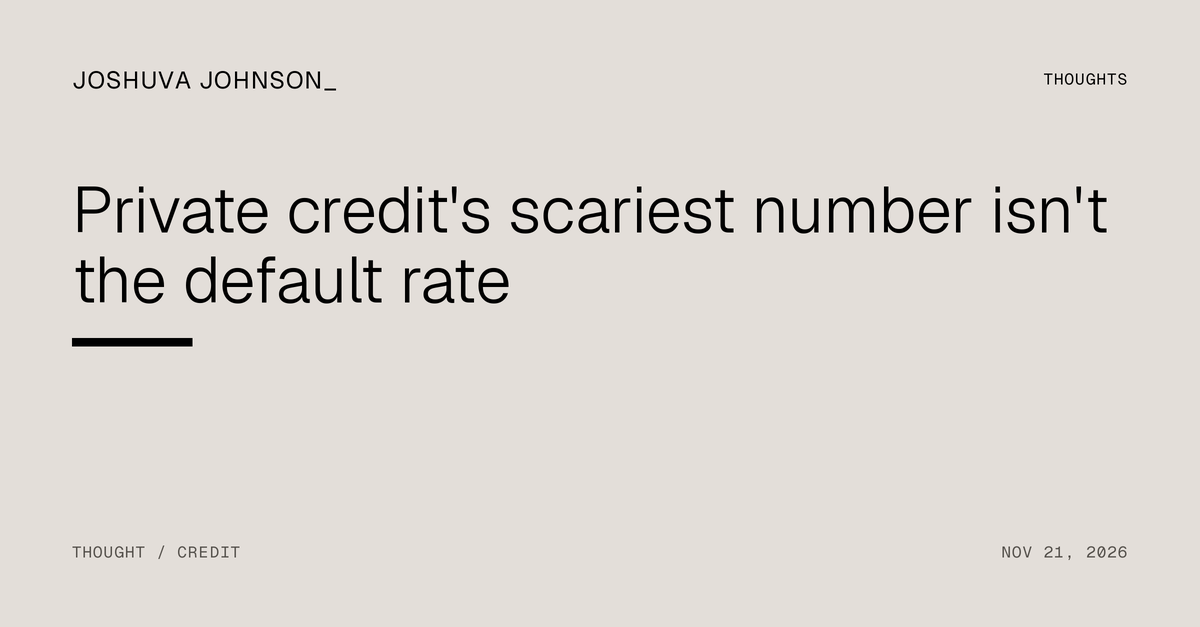
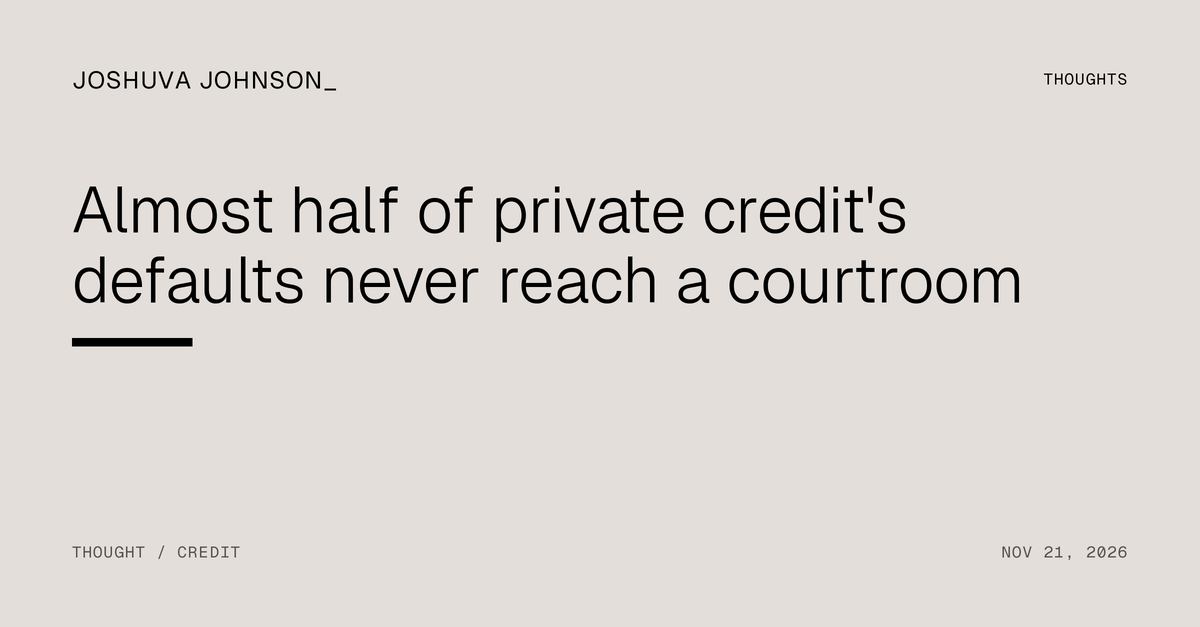
Writing: drop the repeated 'isn't X' construction; fix two stale facts
- New summaries for the AI bottleneck, bonus season, private credit and rates pieces; only the rates title keeps its contrast
- Private credit title now states the finding: almost half of defaults never reach a courtroom
- Private credit summary says 'at or above 6% since April', matching the article
- Bonus piece no longer says the 10-year 'is above 5%': it spent October and most of November there before falling to about 4.9%
- Fewer negation contrasts inside the rates and AI pieces; share images redrawn for the new titles

Claude-Session: https://claude.ai/code/session_01Dc4KQMDr4px4SMpMrXU2Lh

Changed region(s): [[0.0617, 0.2727, 0.925, 0.4848]]

diff --git a/thoughts/rates-sell-off/index.html b/thoughts/rates-sell-off/index.html
@@ -4,11 +4,11 @@
 <meta charset="utf-8">
 <meta name="viewport" content="width=device-width, initial-scale=1">
 <title>The price of risk, not the price of money | Joshuva Johnson</title>
-<meta name="description" content="The 10-year Treasury yield fell this week and the S&amp;P 500 fell 8.6% anyway. That isn&#x27;t a rates story. Taking the sell-off apart, and what it means for the AI trade.">
+<meta name="description" content="The 10-year Treasury yield fell this week, and the S&amp;P 500 dropped 8.6% anyway. Investors are charging more to hold risk, and the AI trade sits in the middle of it.">
 <link rel="canonical" href="https://joshuvajohnson.github.io/thoughts/rates-sell-off/">
 <meta property="og:site_name" content="Joshuva Johnson">
 <meta property="og:title" content="The price of risk, not the price of money">
-<meta property="og:description" content="The 10-year Treasury yield fell this week and the S&amp;P 500 fell 8.6% anyway. That isn&#x27;t a rates story. Taking the sell-off apart, and what it means for the AI trade.">
+<meta property="og:description" content="The 10-year Treasury yield fell this week, and the S&amp;P 500 dropped 8.6% anyway. Investors are charging more to hold risk, and the AI trade sits in the middle of it.">
 <meta property="og:url" content="https://joshuvajohnson.github.io/thoughts/rates-sell-off/">
 <meta property="og:type" content="article">
 <meta property="og:image" content="https://joshuvajohnson.github.io/assets/og/thoughts-rates-sell-off.png">
@@ -44,7 +44,7 @@
 <article class="artwrap gut">
   <p class="crumbs"><a href="/">Thoughts</a><span>/</span><span>Hot take</span></p>
   <h1>The price of risk, not the price of money</h1>
-  <p class="dek">The 10-year Treasury yield fell this week and the S&amp;P 500 fell 8.6% anyway. That isn&#x27;t a rates story. Taking the sell-off apart, and what it means for the AI trade.</p>
+  <p class="dek">The 10-year Treasury yield fell this week, and the S&amp;P 500 dropped 8.6% anyway. Investors are charging more to hold risk, and the AI trade sits in the middle of it.</p>
   <p class="byline"><b>Joshuva Johnson</b><time datetime="2026-11-22">Nov 22, 2026</time></p>
 <div class="prose">
 <p>When I first sat down to write about this sell-off, I had a tidy explanation. The 10-year Treasury yield went from under 4% in February to above 5% in October. Every stock is a claim on future cash flows, and when the rate you discount those cash flows at rises by more than a full point, the companies whose cash flows sit furthest in the future get hit hardest. The AI names are about as far out on that curve as the market gets, so it seemed natural that they would fall first. I still think that story explains a good part of 2026. It does not explain this week.</p>
@@ -66,12 +66,12 @@
 <p>That gives a quick rule. If expected cash flows didn't change, the premium must have risen by about as much as the market fell. From the October 30 close that sits behind Damodaran's November 1 number (7,580) to Friday's close (6,910), the S&amp;P 500 fell 8.8%. Holding cash flows constant, that takes the premium from 4.41% to about 4.84%, and the cost of equity from 9.35% to about 9.76%. Over the same three weeks, the Treasury rate moved two hundredths of a point.</p>
 <p>This is a crude estimate, and it leans on the assumption that expected cash flows held still. If analysts are quietly cutting 2027 earnings, part of the drop is about cash flows, and the premium rose by less. But even with generous allowances for that, the direction is clear: the move this month was in the price of risk, not the price of money.</p>
 <h2>What moved the price of risk</h2>
-<p>Most of what investors reacted to this week was not news about the cash flows of the AI build-out. Nvidia reported its quarter on November 17 with $115.8 billion of revenue and $2.68 of adjusted earnings per share, both well above estimates, and guided to about $130 billion for the next quarter. The stock still fell 23% over the week, including 14% on Friday to $125.53, after Reuters reported that SEC staff were looking at possible accounting issues, a report neither the SEC nor Nvidia had confirmed. That came eight days after Jensen Huang resigned as CEO. Anthropic priced the largest IPO on record at $83 a share on November 18, opened at $111.50, closed its first day at $97.17, and fell another 8.5% on Friday. And Fed officials spent the week signaling that policy may need to get tighter, not looser.</p>
-<p>Put those together and you get a market questioning trust, governance and how much to pay for a story, not one that has learned the AI build-out will deliver less cash than it expected a month ago. Those are exactly the things investors charge a premium for, and a premium, unlike a single company's bad quarter, gets charged on every stock in the market.</p>
+<p>Most of what investors reacted to this week was not news about the cash flows of the AI build-out. Nvidia reported its quarter on November 17 with $115.8 billion of revenue and $2.68 of adjusted earnings per share, both well above estimates, and guided to about $130 billion for the next quarter. The stock still fell 23% over the week, including 14% on Friday to $125.53, after Reuters reported that SEC staff were looking at possible accounting issues, a report neither the SEC nor Nvidia had confirmed. That came eight days after Jensen Huang resigned as CEO. Anthropic priced the largest IPO on record at $83 a share on November 18, opened at $111.50, closed its first day at $97.17, and fell another 8.5% on Friday. And Fed officials spent the week signaling that policy may need to get tighter.</p>
+<p>Put those together and you get a market questioning trust, governance and how much to pay for a story. Nothing this week told it the AI build-out will deliver less cash than it expected a month ago. Those are exactly the things investors charge a premium for, and a premium, unlike a single company's bad quarter, gets charged on every stock in the market.</p>
 <h2>My take</h2>
 <p>The distinction matters because it changes what you do. A rise in the risk-free rate is mechanical: you can see it, hedge it and work out which assets it hurts most. A rise in the risk premium is a judgment about fear, and fear can reverse quickly or feed on itself. Premiums tend to spike in a scare and come back down when the uncertainty behind them resolves. Some of this week's uncertainty has dates attached: Nvidia will name a permanent CEO, the SEC question will be confirmed or put to rest, and Anthropic will settle into a trading range.</p>
 <p>So my read is that the AI story didn't break this week. Investors' trust in it did, and they are now charging more to own it. If you think that fear fades as those questions are answered, a higher premium today is an opportunity. If you think it's the start of a longer repricing, the companies to own are the ones whose cash flows show up soonest, because a higher premium does the least damage to near-term cash. That is the lens I used to revisit <a href="/research/eaton/">my Eaton pitch</a>, and it changed my answer.</p>
-<div class="wim"><p class="kick">What would change my mind</p><p>If the premium settles back toward 4.4% and AI stocks keep falling anyway, the market is telling us the cash flows themselves are in doubt, which is a different and worse story. The tell will be 2027 earnings estimates for the AI names: if those start coming down, the problem is the business, not the price of risk.</p></div>
+<div class="wim"><p class="kick">What would change my mind</p><p>If the premium settles back toward 4.4% and AI stocks keep falling anyway, the market is telling us the cash flows themselves are in doubt, which is a different and worse story. The tell will be 2027 earnings estimates for the AI names: if those start coming down, the problem has moved from the price of risk to the business itself.</p></div>
 <p class="disc">Revised November 22, 2026. The first version, written before Friday's close, argued that the sell-off was mostly about a 5% risk-free rate. Friday's numbers didn't fit that story, so I rewrote it.</p>
 </div>
 <section class="sources"><h2>Sources</h2><ol>

diff --git a/thoughts/bonus-season/index.html b/thoughts/bonus-season/index.html
@@ -4,11 +4,11 @@
 <meta charset="utf-8">
 <meta name="viewport" content="width=device-width, initial-scale=1">
 <title>Wall Street is about to get paid for a market that just changed | Joshuva Johnson</title>
-<meta name="description" content="Bonuses are set to rise for a third straight year. They&#x27;re paying for the first half of 2026, not the 5% world we&#x27;re in now.">
+<meta name="description" content="Johnson Associates expects bonuses to rise for a third straight year, led by equity traders and underwriters. The harder question is whether the deals that paid for them keep coming at today&#x27;s rates.">
 <link rel="canonical" href="https://joshuvajohnson.github.io/thoughts/bonus-season/">
 <meta property="og:site_name" content="Joshuva Johnson">
 <meta property="og:title" content="Wall Street is about to get paid for a market that just changed">
-<meta property="og:description" content="Bonuses are set to rise for a third straight year. They&#x27;re paying for the first half of 2026, not the 5% world we&#x27;re in now.">
+<meta property="og:description" content="Johnson Associates expects bonuses to rise for a third straight year, led by equity traders and underwriters. The harder question is whether the deals that paid for them keep coming at today&#x27;s rates.">
 <meta property="og:url" content="https://joshuvajohnson.github.io/thoughts/bonus-season/">
 <meta property="og:type" content="article">
 <meta property="og:image" content="https://joshuvajohnson.github.io/assets/og/thoughts-bonus-season.png">
@@ -44,17 +44,17 @@
 <article class="artwrap gut">
   <p class="crumbs"><a href="/">Thoughts</a><span>/</span><span>Thought</span></p>
   <h1>Wall Street is about to get paid for a market that just changed</h1>
-  <p class="dek">Bonuses are set to rise for a third straight year. They&#x27;re paying for the first half of 2026, not the 5% world we&#x27;re in now.</p>
+  <p class="dek">Johnson Associates expects bonuses to rise for a third straight year, led by equity traders and underwriters. The harder question is whether the deals that paid for them keep coming at today&#x27;s rates.</p>
   <p class="byline"><b>Joshuva Johnson</b><time datetime="2026-11-21">Nov 21, 2026</time></p>
 <div class="prose">
 <p>Johnson Associates' latest forecast has Wall Street bonuses rising for a third straight year, with increases in 20 of the 21 job categories it tracks. Equity traders and underwriters lead, with jumps of 20% to 30% or more.</p>
 <p>It's earned. Global investment banking fees reached $99.4 billion in the first nine months of the year, up 9% and the best since 2021. First-half M&amp;A set a record at about $2.8 trillion of announced deals, nearly half of it in megadeals above $10 billion.</p>
 <h2>Bonuses look backward. Pipelines look forward.</h2>
-<p>A bonus pays for deals already done. The question for 2027 is what gets done next, and the backdrop changed fast: the 10-year Treasury is above 5%, the Fed is leaning toward a December hike, and the VIX touched 30 this week for the first time since late March.</p>
+<p>A bonus pays for deals already done. The question for 2027 is what gets done next, and the backdrop changed fast: the 10-year Treasury spent October and most of November above 5% before falling to about 4.9% this week, the Fed is leaning toward a December hike, and the VIX touched 30 this week for the first time since late March.</p>
 <p>Not every deal reacts the same way. Strategic megadeals, often paid in stock and driven by boardroom conviction, can ride through higher rates. Leveraged buyouts can't. When debt costs more, sponsors pay less or don't bid. And the private credit funds that financed so many of those deals have problems of their own.</p>
 <h2>My take</h2>
-<p>This year's pay is real. The people who should worry are the ones counting on next year's. If fourth-quarter deal announcements hold near the first-half pace with yields above 5%, the cycle has legs. If they don't, 2026 will look like the peak, and at least one pay consultant is already saying it might be.</p>
-<div class="wim"><p class="kick">What would change my mind</p><p>Fourth-quarter announcements matching the first half, and leveraged loan issuance holding up despite 5% Treasury yields.</p></div>
+<p>This year's pay is real. The people who should worry are the ones counting on next year's. If fourth-quarter deal announcements hold near the first-half pace with yields near 5%, the cycle has legs. If they don't, 2026 will look like the peak, and at least one pay consultant is already saying it might be.</p>
+<div class="wim"><p class="kick">What would change my mind</p><p>Fourth-quarter announcements matching the first half, and leveraged loan issuance holding up with Treasury yields near 5%.</p></div>
 </div>
 <section class="sources"><h2>Sources</h2><ol>
 <li><a href="https://www.thewealthadvisor.com/article/wall-street-bonuses-are-soaring-again-one-pay-expert-thinks-peak">Wall Street Bonuses Are Soaring Again. One Pay Expert Thinks This Is The Peak.</a>, The Wealth Advisor, Nov 10, 2026</li>
@@ -64,7 +64,7 @@
 <li><a href="https://www.morningstar.com/news/dow-jones/202611198503/10-year-treasury-yield-falls-to-5051-data-talk">10-Year Treasury Yield Falls to 5.051%</a>, Dow Jones via Morningstar</li>
 </ol></section>
 
-  <nav class="pager" aria-label="More in Thoughts"><a class="nextup" href="/thoughts/private-credit-defaults/"><p class="kick">Previous</p><h3>Private credit&#x27;s scariest number isn&#x27;t the default rate</h3></a><a class="nextup" href="/thoughts/corporate-life-cycle/"><p class="kick">Next</p><h3>Reading notes: Damodaran&#x27;s The Corporate Life Cycle</h3></a></nav>
+  <nav class="pager" aria-label="More in Thoughts"><a class="nextup" href="/thoughts/private-credit-defaults/"><p class="kick">Previous</p><h3>Almost half of private credit&#x27;s defaults never reach a courtroom</h3></a><a class="nextup" href="/thoughts/corporate-life-cycle/"><p class="kick">Next</p><h3>Reading notes: Damodaran&#x27;s The Corporate Life Cycle</h3></a></nav>
 </article>
 </main>
 

diff --git a/src/content/thoughts/rates-sell-off.html b/src/content/thoughts/rates-sell-off.html
@@ -1,7 +1,7 @@
 <!--meta
 {
   "title": "The price of risk, not the price of money",
-  "dek": "The 10-year Treasury yield fell this week and the S&P 500 fell 8.6% anyway. That isn't a rates story. Taking the sell-off apart, and what it means for the AI trade.",
+  "dek": "The 10-year Treasury yield fell this week, and the S&P 500 dropped 8.6% anyway. Investors are charging more to hold risk, and the AI trade sits in the middle of it.",
   "date": "2026-11-22",
   "section": "thoughts",
   "slug": "rates-sell-off",
@@ -31,12 +31,12 @@
 <p>That gives a quick rule. If expected cash flows didn't change, the premium must have risen by about as much as the market fell. From the October 30 close that sits behind Damodaran's November 1 number (7,580) to Friday's close (6,910), the S&amp;P 500 fell 8.8%. Holding cash flows constant, that takes the premium from 4.41% to about 4.84%, and the cost of equity from 9.35% to about 9.76%. Over the same three weeks, the Treasury rate moved two hundredths of a point.</p>
 <p>This is a crude estimate, and it leans on the assumption that expected cash flows held still. If analysts are quietly cutting 2027 earnings, part of the drop is about cash flows, and the premium rose by less. But even with generous allowances for that, the direction is clear: the move this month was in the price of risk, not the price of money.</p>
 <h2>What moved the price of risk</h2>
-<p>Most of what investors reacted to this week was not news about the cash flows of the AI build-out. Nvidia reported its quarter on November 17 with $115.8 billion of revenue and $2.68 of adjusted earnings per share, both well above estimates, and guided to about $130 billion for the next quarter. The stock still fell 23% over the week, including 14% on Friday to $125.53, after Reuters reported that SEC staff were looking at possible accounting issues, a report neither the SEC nor Nvidia had confirmed. That came eight days after Jensen Huang resigned as CEO. Anthropic priced the largest IPO on record at $83 a share on November 18, opened at $111.50, closed its first day at $97.17, and fell another 8.5% on Friday. And Fed officials spent the week signaling that policy may need to get tighter, not looser.</p>
-<p>Put those together and you get a market questioning trust, governance and how much to pay for a story, not one that has learned the AI build-out will deliver less cash than it expected a month ago. Those are exactly the things investors charge a premium for, and a premium, unlike a single company's bad quarter, gets charged on every stock in the market.</p>
+<p>Most of what investors reacted to this week was not news about the cash flows of the AI build-out. Nvidia reported its quarter on November 17 with $115.8 billion of revenue and $2.68 of adjusted earnings per share, both well above estimates, and guided to about $130 billion for the next quarter. The stock still fell 23% over the week, including 14% on Friday to $125.53, after Reuters reported that SEC staff were looking at possible accounting issues, a report neither the SEC nor Nvidia had confirmed. That came eight days after Jensen Huang resigned as CEO. Anthropic priced the largest IPO on record at $83 a share on November 18, opened at $111.50, closed its first day at $97.17, and fell another 8.5% on Friday. And Fed officials spent the week signaling that policy may need to get tighter.</p>
+<p>Put those together and you get a market questioning trust, governance and how much to pay for a story. Nothing this week told it the AI build-out will deliver less cash than it expected a month ago. Those are exactly the things investors charge a premium for, and a premium, unlike a single company's bad quarter, gets charged on every stock in the market.</p>
 <h2>My take</h2>
 <p>The distinction matters because it changes what you do. A rise in the risk-free rate is mechanical: you can see it, hedge it and work out which assets it hurts most. A rise in the risk premium is a judgment about fear, and fear can reverse quickly or feed on itself. Premiums tend to spike in a scare and come back down when the uncertainty behind them resolves. Some of this week's uncertainty has dates attached: Nvidia will name a permanent CEO, the SEC question will be confirmed or put to rest, and Anthropic will settle into a trading range.</p>
 <p>So my read is that the AI story didn't break this week. Investors' trust in it did, and they are now charging more to own it. If you think that fear fades as those questions are answered, a higher premium today is an opportunity. If you think it's the start of a longer repricing, the companies to own are the ones whose cash flows show up soonest, because a higher premium does the least damage to near-term cash. That is the lens I used to revisit <a href="/research/eaton/">my Eaton pitch</a>, and it changed my answer.</p>
-<div class="wim"><p class="kick">What would change my mind</p><p>If the premium settles back toward 4.4% and AI stocks keep falling anyway, the market is telling us the cash flows themselves are in doubt, which is a different and worse story. The tell will be 2027 earnings estimates for the AI names: if those start coming down, the problem is the business, not the price of risk.</p></div>
+<div class="wim"><p class="kick">What would change my mind</p><p>If the premium settles back toward 4.4% and AI stocks keep falling anyway, the market is telling us the cash flows themselves are in doubt, which is a different and worse story. The tell will be 2027 earnings estimates for the AI names: if those start coming down, the problem has moved from the price of risk to the business itself.</p></div>
 <p class="disc">Revised November 22, 2026. The first version, written before Friday's close, argued that the sell-off was mostly about a 5% risk-free rate. Friday's numbers didn't fit that story, so I rewrote it.</p>
 </div>
 <section class="sources"><h2>Sources</h2><ol>

diff --git a/thoughts/ai-bottleneck/index.html b/thoughts/ai-bottleneck/index.html
@@ -4,11 +4,11 @@
 <meta charset="utf-8">
 <meta name="viewport" content="width=device-width, initial-scale=1">
 <title>Microsoft just told you where the AI bottleneck is | Joshuva Johnson</title>
-<meta name="description" content="It isn&#x27;t chips. When the biggest buyer of AI capacity can&#x27;t spend money fast enough, the constraint is buildings, power and the gear in between.">
+<meta name="description" content="Microsoft is spending as fast as it can and still running short of AI capacity. The holdup is buildings, grid connections and the electrical gear in between.">
 <link rel="canonical" href="https://joshuvajohnson.github.io/thoughts/ai-bottleneck/">
 <meta property="og:site_name" content="Joshuva Johnson">
 <meta property="og:title" content="Microsoft just told you where the AI bottleneck is">
-<meta property="og:description" content="It isn&#x27;t chips. When the biggest buyer of AI capacity can&#x27;t spend money fast enough, the constraint is buildings, power and the gear in between.">
+<meta property="og:description" content="Microsoft is spending as fast as it can and still running short of AI capacity. The holdup is buildings, grid connections and the electrical gear in between.">
 <meta property="og:url" content="https://joshuvajohnson.github.io/thoughts/ai-bottleneck/">
 <meta property="og:type" content="article">
 <meta property="og:image" content="https://joshuvajohnson.github.io/assets/og/thoughts-ai-bottleneck.png">
@@ -44,18 +44,18 @@
 <article class="artwrap gut">
   <p class="crumbs"><a href="/">Thoughts</a><span>/</span><span>Thought</span></p>
   <h1>Microsoft just told you where the AI bottleneck is</h1>
-  <p class="dek">It isn&#x27;t chips. When the biggest buyer of AI capacity can&#x27;t spend money fast enough, the constraint is buildings, power and the gear in between.</p>
+  <p class="dek">Microsoft is spending as fast as it can and still running short of AI capacity. The holdup is buildings, grid connections and the electrical gear in between.</p>
   <p class="byline"><b>Joshuva Johnson</b><time datetime="2026-11-21">Nov 21, 2026</time></p>
 <div class="prose">
 <p>Buried in Microsoft's October earnings call was a line most people skipped. The company trimmed its calendar 2026 capital spending forecast to about $170 billion, down from $175 billion. Not because demand slowed. Because capacity it had contracted from third parties, GPU-as-a-service deals, slipped into the second half of its fiscal year.</p>
 <p>The September quarter tells the same story. Microsoft spent $45.2 billion on capex, about $6.5 billion less than analysts expected, and still roughly 30% more than a year earlier.</p>
 <p>Think about what that means. The richest buyer in the AI build-out had the money, the demand and the contracts. What it didn't have was finished capacity on time.</p>
-<h2>Follow the order book, not the headlines</h2>
+<h2>Follow the order book</h2>
 <p>If the bottleneck is physical, the companies selling into it should be swamped. They are. Eaton, which makes switchgear, power distribution gear, UPS systems and now liquid cooling, said its Electrical backlog topped $20 billion, up 46% from a year ago, and data-center sales in its Americas electrical business grew 54% in the quarter.</p>
 <p>Across the five biggest spenders, 2026 capex is now forecast at roughly $800 billion or more. Chips take most of it. But every chip needs a building, a grid connection and a power train, and those take longer to build than a GPU takes to ship.</p>
 <h2>The new bottleneck is political</h2>
 <p>Here's the twist. Once the constraint is physical, it becomes local. After the midterms, Texas's governor-elect pledged to halt new data-center approvals until new rules are in place, and power-equipment stocks sold off hard.</p>
-<p>So my read: AI demand isn't the main risk for the companies building the physical layer. Permits, power and politics are. That's a very different risk to underwrite. It moves slower, and it shows up in orders long before it shows up in revenue.</p>
+<p>So my read: for the companies building the physical layer, the main risk is permits, power and politics, more than AI demand. That's a very different risk to underwrite. It moves slower, and it shows up in orders long before it shows up in revenue.</p>
 <div class="wim"><p class="kick">What would change my mind</p><p>If Microsoft's delayed capacity arrives on schedule and lead times on electrical equipment start getting shorter, the bottleneck is easing, and so is the pricing power of the companies that own it.</p></div>
 </div>
 <section class="sources"><h2>Sources</h2><ol>
@@ -66,7 +66,7 @@
 <li><a href="https://www.tikr.com/blog/eaton-lost-23-in-a-month-rbc-sees-58-upside-from-here">Eaton Lost 23% in a Month</a>, TIKR</li>
 </ol></section>
 
-  <nav class="pager" aria-label="More in Thoughts"><a class="nextup" href="/thoughts/rates-sell-off/"><p class="kick">Previous</p><h3>The price of risk, not the price of money</h3></a><a class="nextup" href="/thoughts/private-credit-defaults/"><p class="kick">Next</p><h3>Private credit&#x27;s scariest number isn&#x27;t the default rate</h3></a></nav>
+  <nav class="pager" aria-label="More in Thoughts"><a class="nextup" href="/thoughts/rates-sell-off/"><p class="kick">Previous</p><h3>The price of risk, not the price of money</h3></a><a class="nextup" href="/thoughts/private-credit-defaults/"><p class="kick">Next</p><h3>Almost half of private credit&#x27;s defaults never reach a courtroom</h3></a></nav>
 </article>
 </main>
 

diff --git a/src/content/thoughts/bonus-season.html b/src/content/thoughts/bonus-season.html
@@ -1,7 +1,7 @@
 <!--meta
 {
   "title": "Wall Street is about to get paid for a market that just changed",
-  "dek": "Bonuses are set to rise for a third straight year. They're paying for the first half of 2026, not the 5% world we're in now.",
+  "dek": "Johnson Associates expects bonuses to rise for a third straight year, led by equity traders and underwriters. The harder question is whether the deals that paid for them keep coming at today's rates.",
   "date": "2026-11-21",
   "section": "thoughts",
   "slug": "bonus-season",
@@ -15,11 +15,11 @@
 <p>Johnson Associates' latest forecast has Wall Street bonuses rising for a third straight year, with increases in 20 of the 21 job categories it tracks. Equity traders and underwriters lead, with jumps of 20% to 30% or more.</p>
 <p>It's earned. Global investment banking fees reached $99.4 billion in the first nine months of the year, up 9% and the best since 2021. First-half M&amp;A set a record at about $2.8 trillion of announced deals, nearly half of it in megadeals above $10 billion.</p>
 <h2>Bonuses look backward. Pipelines look forward.</h2>
-<p>A bonus pays for deals already done. The question for 2027 is what gets done next, and the backdrop changed fast: the 10-year Treasury is above 5%, the Fed is leaning toward a December hike, and the VIX touched 30 this week for the first time since late March.</p>
+<p>A bonus pays for deals already done. The question for 2027 is what gets done next, and the backdrop changed fast: the 10-year Treasury spent October and most of November above 5% before falling to about 4.9% this week, the Fed is leaning toward a December hike, and the VIX touched 30 this week for the first time since late March.</p>
 <p>Not every deal reacts the same way. Strategic megadeals, often paid in stock and driven by boardroom conviction, can ride through higher rates. Leveraged buyouts can't. When debt costs more, sponsors pay less or don't bid. And the private credit funds that financed so many of those deals have problems of their own.</p>
 <h2>My take</h2>
-<p>This year's pay is real. The people who should worry are the ones counting on next year's. If fourth-quarter deal announcements hold near the first-half pace with yields above 5%, the cycle has legs. If they don't, 2026 will look like the peak, and at least one pay consultant is already saying it might be.</p>
-<div class="wim"><p class="kick">What would change my mind</p><p>Fourth-quarter announcements matching the first half, and leveraged loan issuance holding up despite 5% Treasury yields.</p></div>
+<p>This year's pay is real. The people who should worry are the ones counting on next year's. If fourth-quarter deal announcements hold near the first-half pace with yields near 5%, the cycle has legs. If they don't, 2026 will look like the peak, and at least one pay consultant is already saying it might be.</p>
+<div class="wim"><p class="kick">What would change my mind</p><p>Fourth-quarter announcements matching the first half, and leveraged loan issuance holding up with Treasury yields near 5%.</p></div>
 </div>
 <section class="sources"><h2>Sources</h2><ol>
 <li><a href="https://www.thewealthadvisor.com/article/wall-street-bonuses-are-soaring-again-one-pay-expert-thinks-peak">Wall Street Bonuses Are Soaring Again. One Pay Expert Thinks This Is The Peak.</a>, The Wealth Advisor, Nov 10, 2026</li>

diff --git a/thoughts/private-credit-defaults/index.html b/thoughts/private-credit-defaults/index.html
@@ -3,18 +3,18 @@
 <head>
 <meta charset="utf-8">
 <meta name="viewport" content="width=device-width, initial-scale=1">
-<title>Private credit&#x27;s scariest number isn&#x27;t the default rate | Joshuva Johnson</title>
-<meta name="description" content="Fitch&#x27;s default rate has sat above 6% since April. Half of those defaults never reach a courtroom. The borrowers just stop paying cash.">
+<title>Almost half of private credit&#x27;s defaults never reach a courtroom | Joshuva Johnson</title>
+<meta name="description" content="Fitch&#x27;s default rate has been at or above 6% since April. Many of those borrowers now pay interest with more debt instead of cash, which delays the losses without avoiding them.">
 <link rel="canonical" href="https://joshuvajohnson.github.io/thoughts/private-credit-defaults/">
 <meta property="og:site_name" content="Joshuva Johnson">
-<meta property="og:title" content="Private credit&#x27;s scariest number isn&#x27;t the default rate">
-<meta property="og:description" content="Fitch&#x27;s default rate has sat above 6% since April. Half of those defaults never reach a courtroom. The borrowers just stop paying cash.">
+<meta property="og:title" content="Almost half of private credit&#x27;s defaults never reach a courtroom">
+<meta property="og:description" content="Fitch&#x27;s default rate has been at or above 6% since April. Many of those borrowers now pay interest with more debt instead of cash, which delays the losses without avoiding them.">
 <meta property="og:url" content="https://joshuvajohnson.github.io/thoughts/private-credit-defaults/">
 <meta property="og:type" content="article">
 <meta property="og:image" content="https://joshuvajohnson.github.io/assets/og/thoughts-private-credit-defaults.png">
 <meta property="og:image:width" content="1200">
 <meta property="og:image:height" content="627">
-<meta property="og:image:alt" content="Private credit&#x27;s scariest number isn&#x27;t the default rate">
+<meta property="og:image:alt" content="Almost half of private credit&#x27;s defaults never reach a courtroom">
 <meta name="twitter:card" content="summary_large_image">
 <meta property="article:published_time" content="2026-11-21">
 <meta property="article:author" content="Joshuva Johnson">
@@ -43,8 +43,8 @@
 <main id="main">
 <article class="artwrap gut">
   <p class="crumbs"><a href="/">Thoughts</a><span>/</span><span>Thought</span></p>
-  <h1>Private credit&#x27;s scariest number isn&#x27;t the default rate</h1>
-  <p class="dek">Fitch&#x27;s default rate has sat above 6% since April. Half of those defaults never reach a courtroom. The borrowers just stop paying cash.</p>
+  <h1>Almost half of private credit&#x27;s defaults never reach a courtroom</h1>
+  <p class="dek">Fitch&#x27;s default rate has been at or above 6% since April. Many of those borrowers now pay interest with more debt instead of cash, which delays the losses without avoiding them.</p>
   <p class="byline"><b>Joshuva Johnson</b><time datetime="2026-11-21">Nov 21, 2026</time></p>
 <div class="prose">
 <p>Fitch's U.S. private credit default rate was 6.2% for the twelve months through October, barely off September's 6.3%. It has stayed at or above 6% since April, when it first set a record.</p>

diff --git a/src/content/thoughts/ai-bottleneck.html b/src/content/thoughts/ai-bottleneck.html
@@ -1,7 +1,7 @@
 <!--meta
 {
   "title": "Microsoft just told you where the AI bottleneck is",
-  "dek": "It isn't chips. When the biggest buyer of AI capacity can't spend money fast enough, the constraint is buildings, power and the gear in between.",
+  "dek": "Microsoft is spending as fast as it can and still running short of AI capacity. The holdup is buildings, grid connections and the electrical gear in between.",
   "date": "2026-11-21",
   "section": "thoughts",
   "slug": "ai-bottleneck",
@@ -15,12 +15,12 @@
 <p>Buried in Microsoft's October earnings call was a line most people skipped. The company trimmed its calendar 2026 capital spending forecast to about $170 billion, down from $175 billion. Not because demand slowed. Because capacity it had contracted from third parties, GPU-as-a-service deals, slipped into the second half of its fiscal year.</p>
 <p>The September quarter tells the same story. Microsoft spent $45.2 billion on capex, about $6.5 billion less than analysts expected, and still roughly 30% more than a year earlier.</p>
 <p>Think about what that means. The richest buyer in the AI build-out had the money, the demand and the contracts. What it didn't have was finished capacity on time.</p>
-<h2>Follow the order book, not the headlines</h2>
+<h2>Follow the order book</h2>
 <p>If the bottleneck is physical, the companies selling into it should be swamped. They are. Eaton, which makes switchgear, power distribution gear, UPS systems and now liquid cooling, said its Electrical backlog topped $20 billion, up 46% from a year ago, and data-center sales in its Americas electrical business grew 54% in the quarter.</p>
 <p>Across the five biggest spenders, 2026 capex is now forecast at roughly $800 billion or more. Chips take most of it. But every chip needs a building, a grid connection and a power train, and those take longer to build than a GPU takes to ship.</p>
 <h2>The new bottleneck is political</h2>
 <p>Here's the twist. Once the constraint is physical, it becomes local. After the midterms, Texas's governor-elect pledged to halt new data-center approvals until new rules are in place, and power-equipment stocks sold off hard.</p>
-<p>So my read: AI demand isn't the main risk for the companies building the physical layer. Permits, power and politics are. That's a very different risk to underwrite. It moves slower, and it shows up in orders long before it shows up in revenue.</p>
+<p>So my read: for the companies building the physical layer, the main risk is permits, power and politics, more than AI demand. That's a very different risk to underwrite. It moves slower, and it shows up in orders long before it shows up in revenue.</p>
 <div class="wim"><p class="kick">What would change my mind</p><p>If Microsoft's delayed capacity arrives on schedule and lead times on electrical equipment start getting shorter, the bottleneck is easing, and so is the pricing power of the companies that own it.</p></div>
 </div>
 <section class="sources"><h2>Sources</h2><ol>

diff --git a/index.html b/index.html
@@ -73,9 +73,9 @@
   <div class="wrap">
     <div class="head"><h2 id="more-title">More thoughts</h2></div>
     <div class="grid2" id="t-grid">
-      <a class="cardlink" href="/thoughts/ai-bottleneck/"><div class="card"><p class="kick">Companies</p><h3>Microsoft just told you where the AI bottleneck is</h3><p class="dek">It isn&#x27;t chips. When the biggest buyer of AI capacity can&#x27;t spend money fast enough, the constraint is buildings, power and the gear in between.</p></div></a>
-      <a class="cardlink" href="/thoughts/private-credit-defaults/"><div class="card"><p class="kick">Credit</p><h3>Private credit&#x27;s scariest number isn&#x27;t the default rate</h3><p class="dek">Fitch&#x27;s default rate has sat above 6% since April. Half of those defaults never reach a courtroom. The borrowers just stop paying cash.</p></div></a>
-      <a class="cardlink" href="/thoughts/bonus-season/"><div class="card"><p class="kick">Deals</p><h3>Wall Street is about to get paid for a market that just changed</h3><p class="dek">Bonuses are set to rise for a third straight year. They&#x27;re paying for the first half of 2026, not the 5% world we&#x27;re in now.</p></div></a>
+      <a class="cardlink" href="/thoughts/ai-bottleneck/"><div class="card"><p class="kick">Companies</p><h3>Microsoft just told you where the AI bottleneck is</h3><p class="dek">Microsoft is spending as fast as it can and still running short of AI capacity. The holdup is buildings, grid connections and the electrical gear in between.</p></div></a>
+      <a class="cardlink" href="/thoughts/private-credit-defaults/"><div class="card"><p class="kick">Credit</p><h3>Almost half of private credit&#x27;s defaults never reach a courtroom</h3><p class="dek">Fitch&#x27;s default rate has been at or above 6% since April. Many of those borrowers now pay interest with more debt instead of cash, which delays the losses without avoiding them.</p></div></a>
+      <a class="cardlink" href="/thoughts/bonus-season/"><div class="card"><p class="kick">Deals</p><h3>Wall Street is about to get paid for a market that just changed</h3><p class="dek">Johnson Associates expects bonuses to rise for a third straight year, led by equity traders and underwriters. The harder question is whether the deals that paid for them keep coming at today&#x27;s rates.</p></div></a>
       <a class="cardlink" href="/thoughts/corporate-life-cycle/"><div class="card"><p class="kick">Reading notes</p><h3>Reading notes: Damodaran&#x27;s The Corporate Life Cycle</h3><p class="dek">Companies age like people, and the right way to value one changes as it does. A useful lens for a market where giants are acting young again.</p></div></a>
     </div>
   </div>

diff --git a/src/content/thoughts/private-credit-defaults.html b/src/content/thoughts/private-credit-defaults.html
@@ -1,7 +1,7 @@
 <!--meta
 {
-  "title": "Private credit's scariest number isn't the default rate",
-  "dek": "Fitch's default rate has sat above 6% since April. Half of those defaults never reach a courtroom. The borrowers just stop paying cash.",
+  "title": "Almost half of private credit's defaults never reach a courtroom",
+  "dek": "Fitch's default rate has been at or above 6% since April. Many of those borrowers now pay interest with more debt instead of cash, which delays the losses without avoiding them.",
   "date": "2026-11-21",
   "section": "thoughts",
   "slug": "private-credit-defaults",
